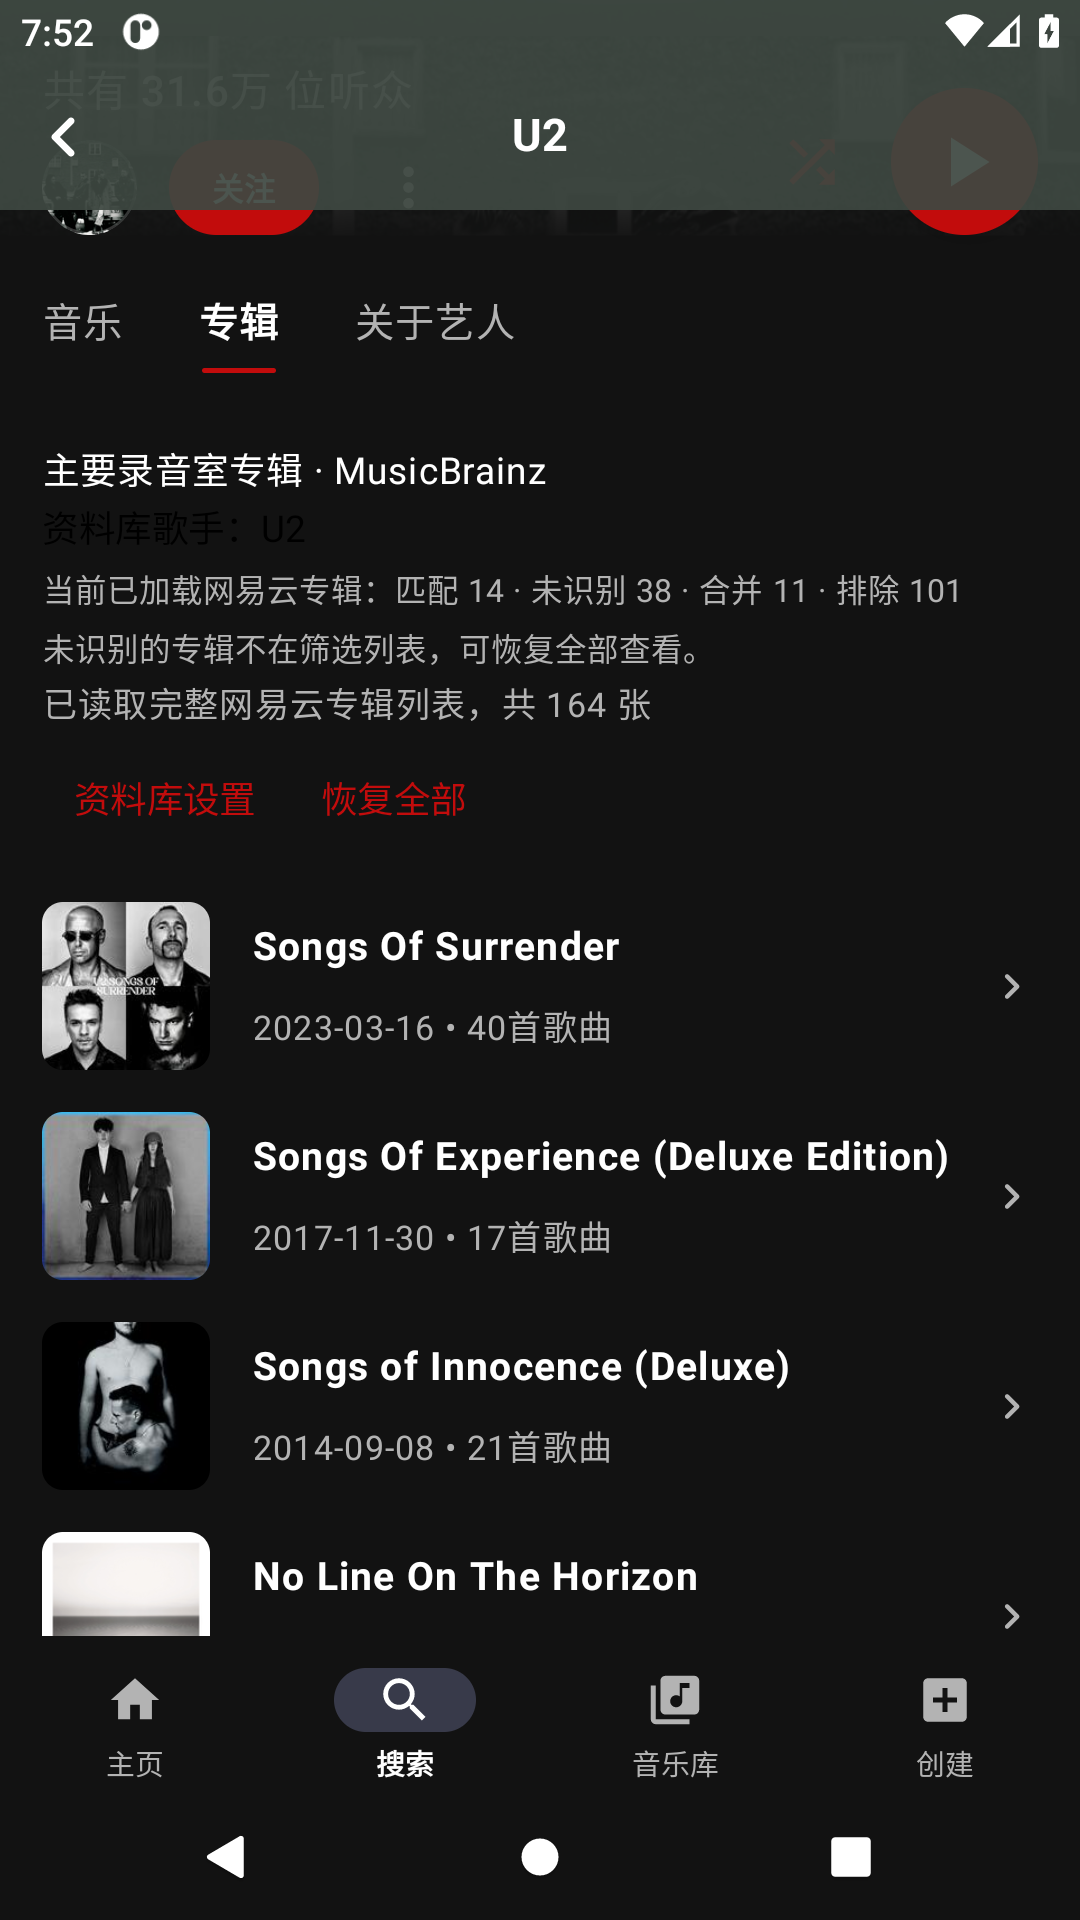
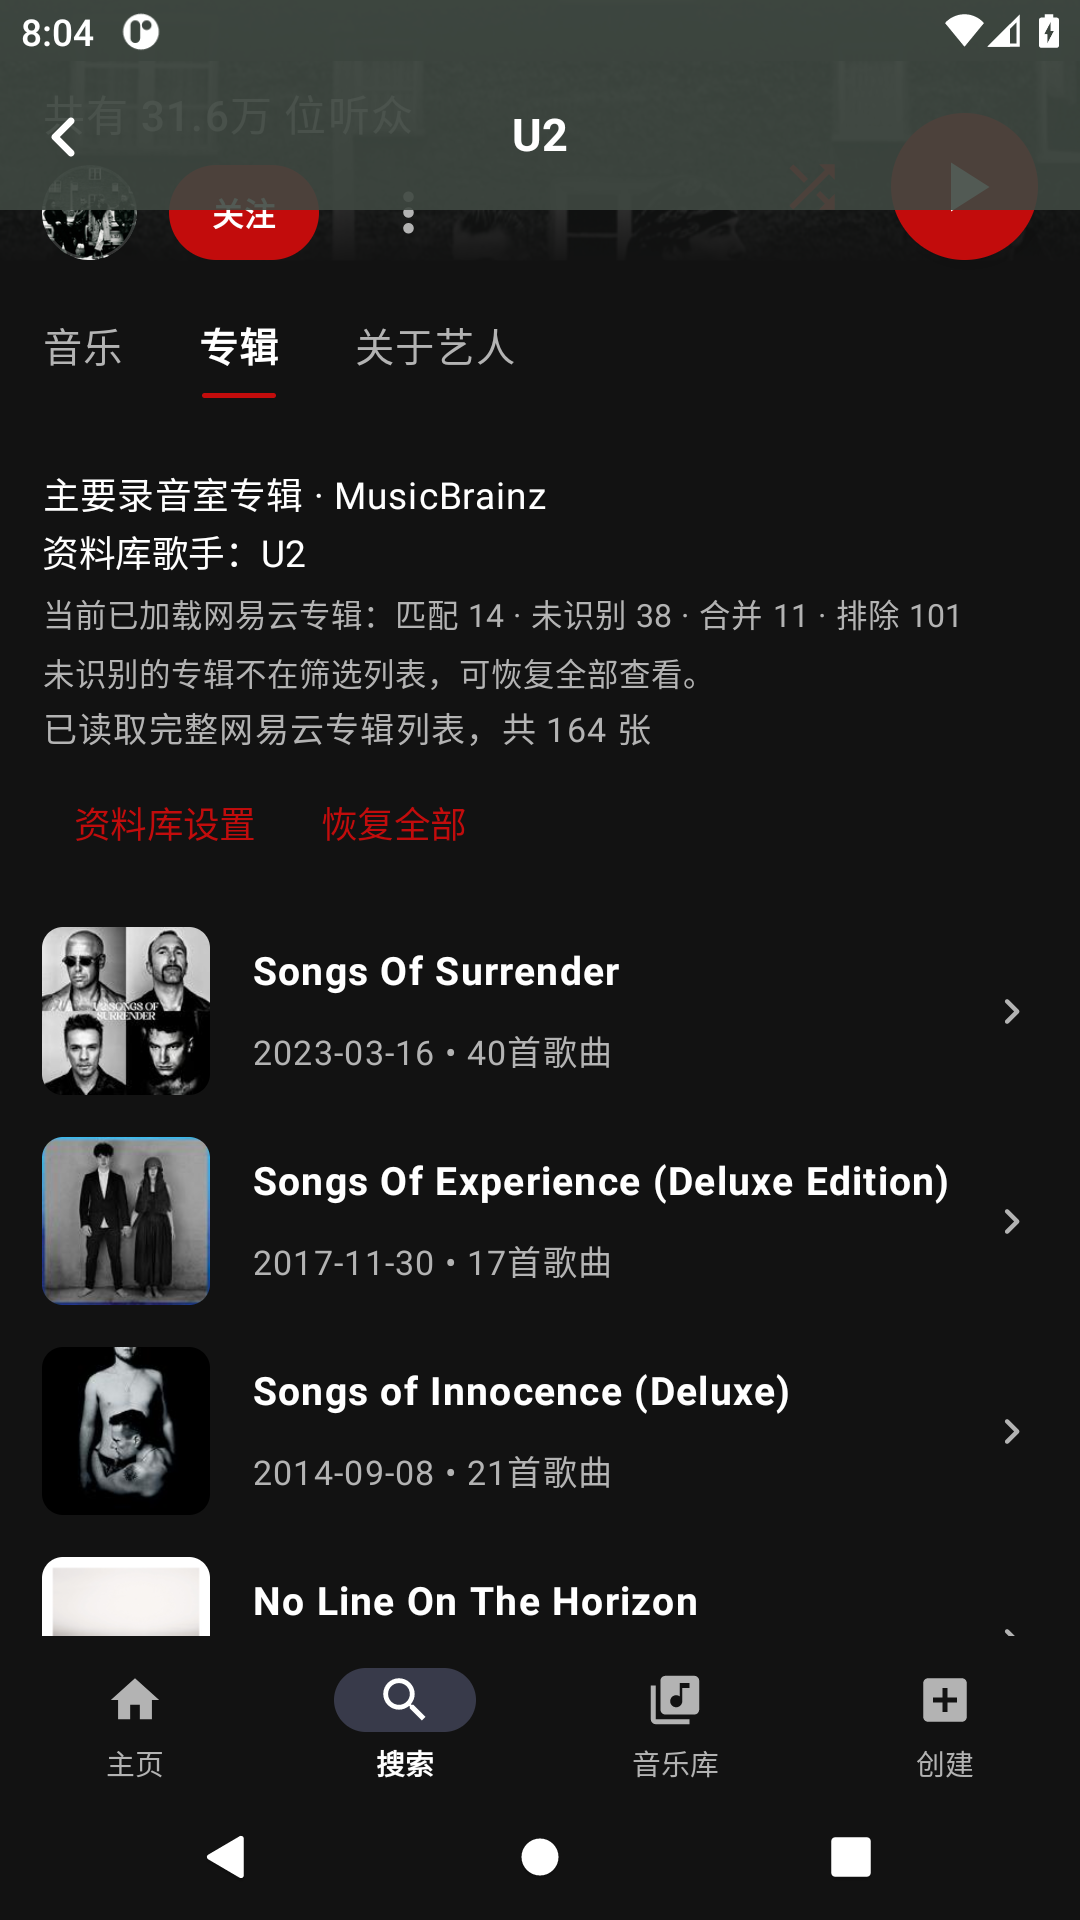
fix(artist): preserve catalog text contrast in dark theme

diff --git a/app/src/main/java/com/lin0721/linmusic/feature/artist/ui/catalog/ArtistCatalogSheet.kt b/app/src/main/java/com/lin0721/linmusic/feature/artist/ui/catalog/ArtistCatalogSheet.kt
@@ -131,7 +131,7 @@ fun ArtistCatalogSheet(
 fun ArtistCatalogStatus(state: ArtistCatalogUiState, selection: ArtistCatalogSelection?) {
     Column(verticalArrangement = Arrangement.spacedBy(5.dp)) {
         state.artistName?.takeIf(String::isNotBlank)?.let {
-            Text("资料库歌手：$it", style = MaterialTheme.typography.bodyMedium)
+            Text("资料库歌手：$it", style = MaterialTheme.typography.bodyMedium, color = MaterialTheme.colorScheme.onSurface)
         }
         if (selection != null) {
             Text("当前已加载网易云专辑：匹配 ${selection.matchedCount} · 未识别 ${selection.unmatchedCount} · 合并 ${selection.duplicateCount} · 排除 ${selection.excludedCount}",
